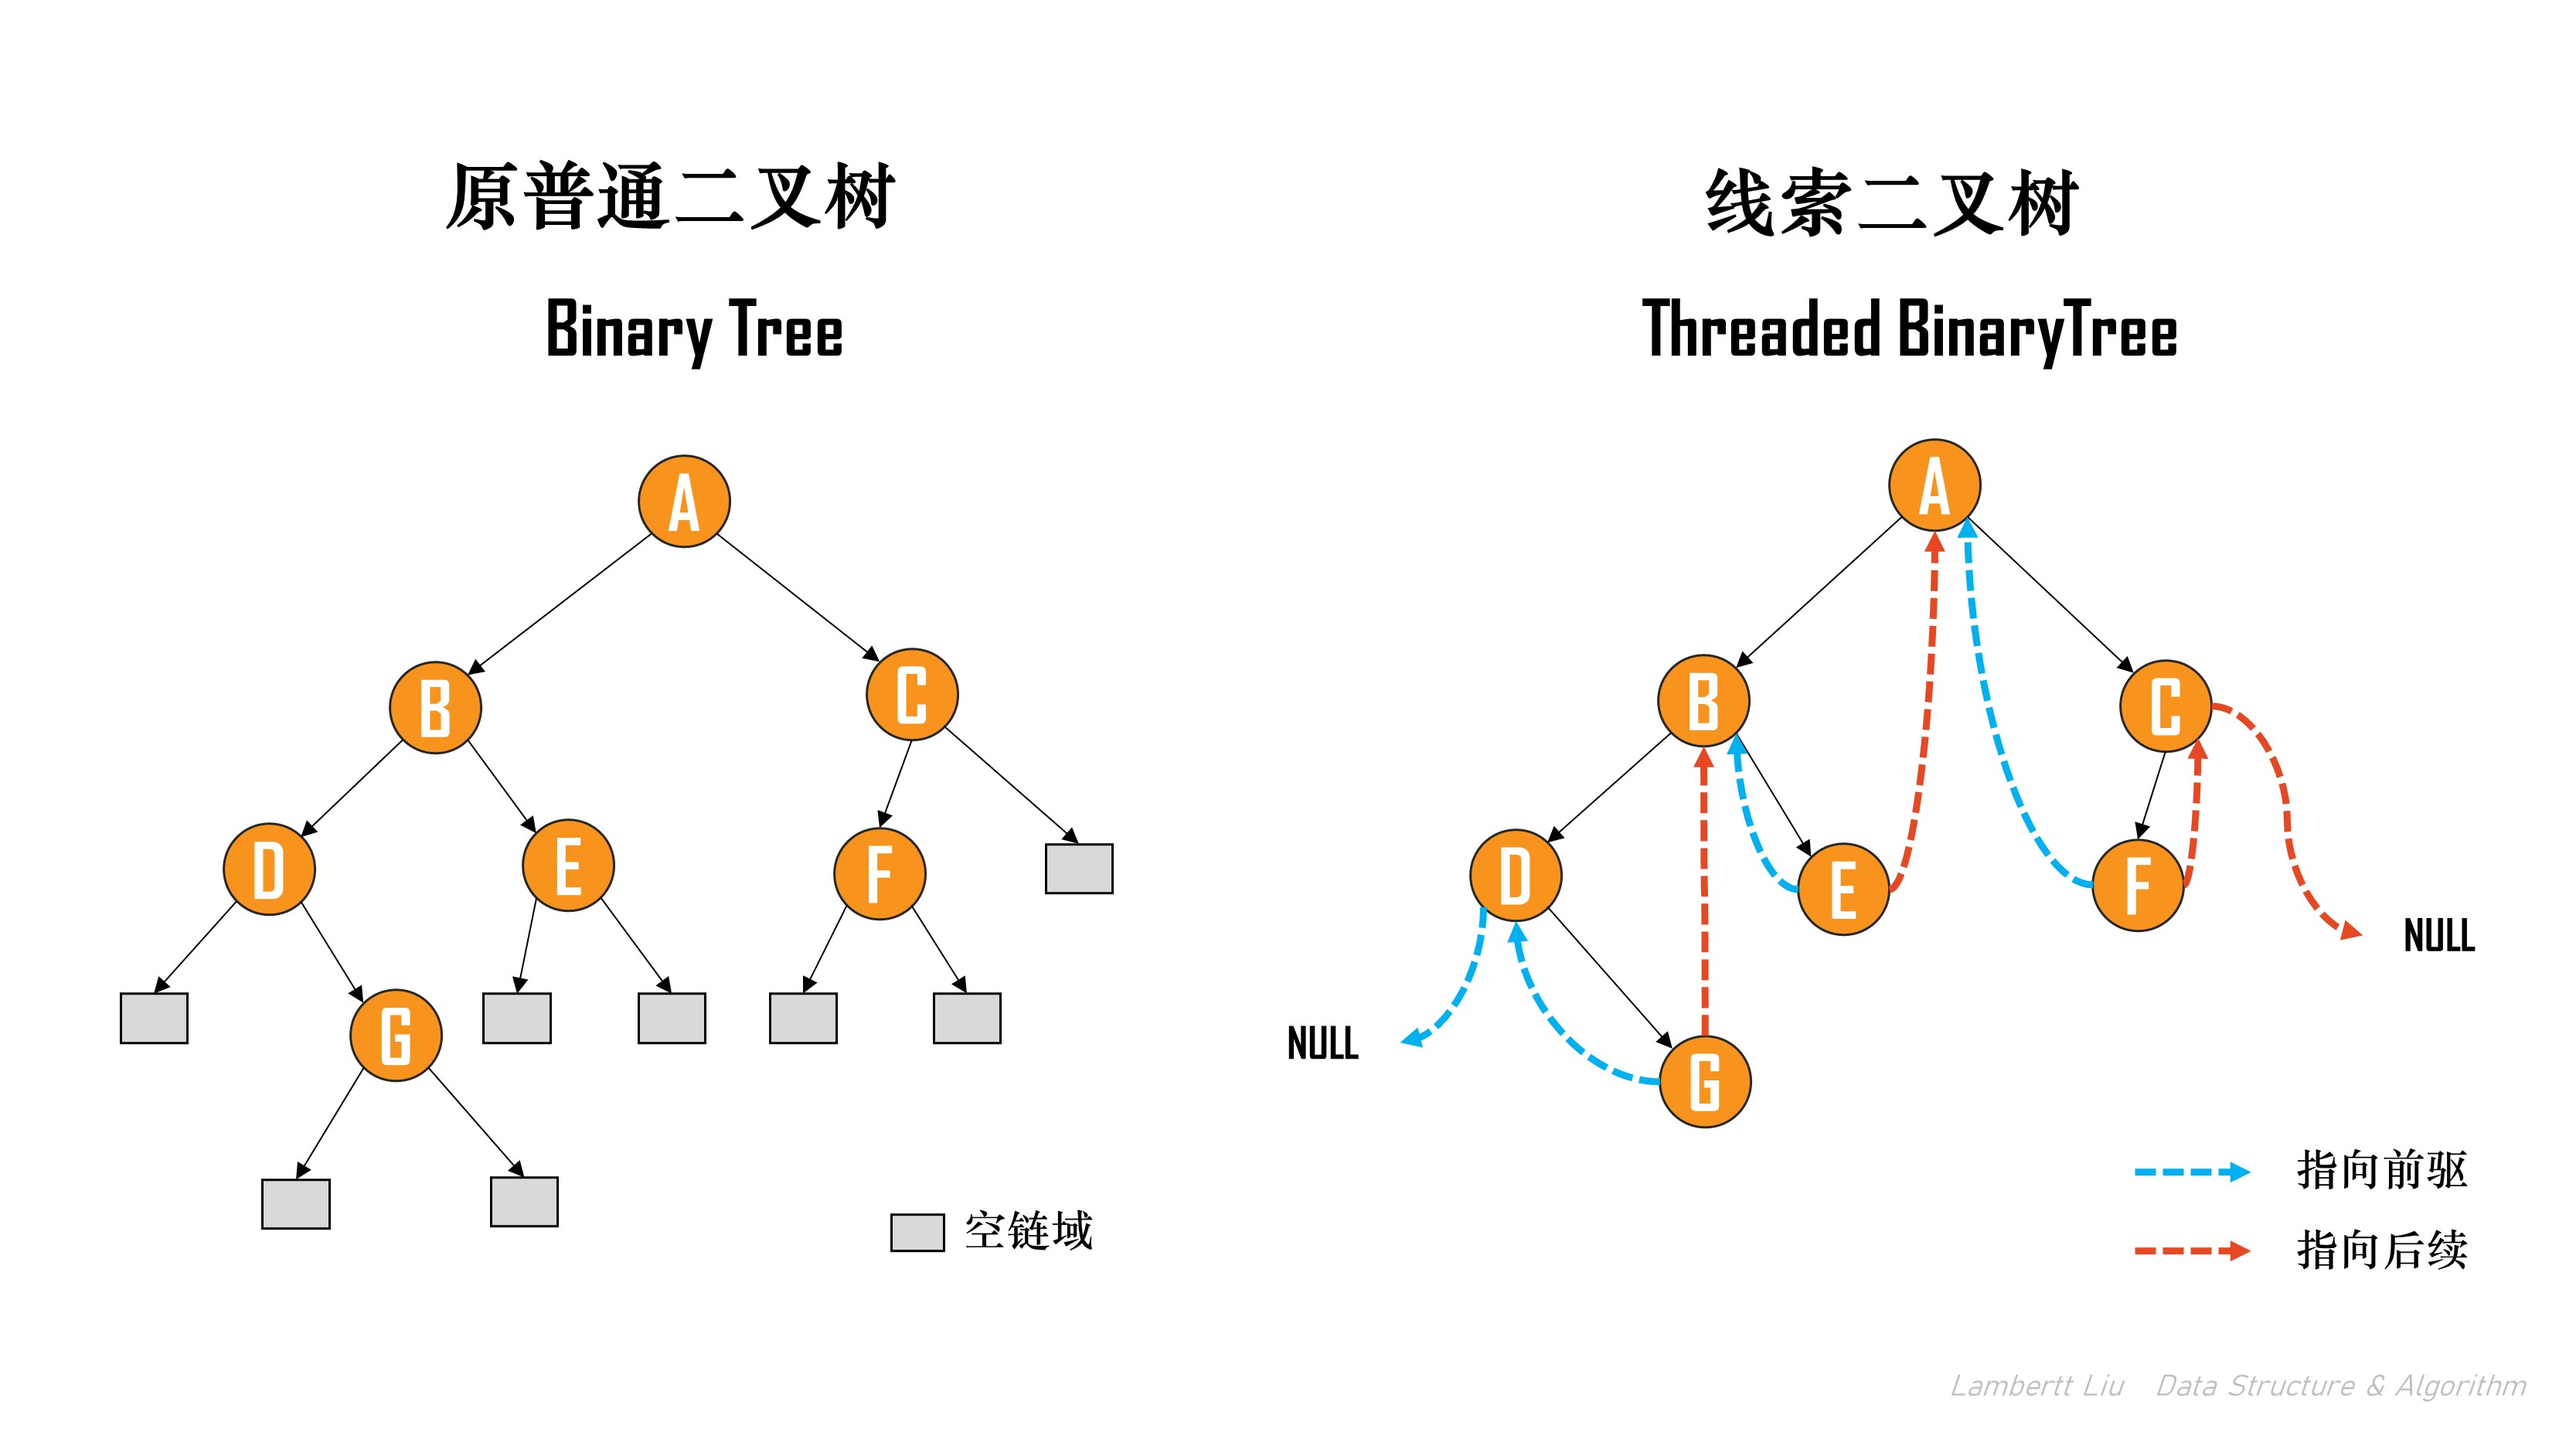
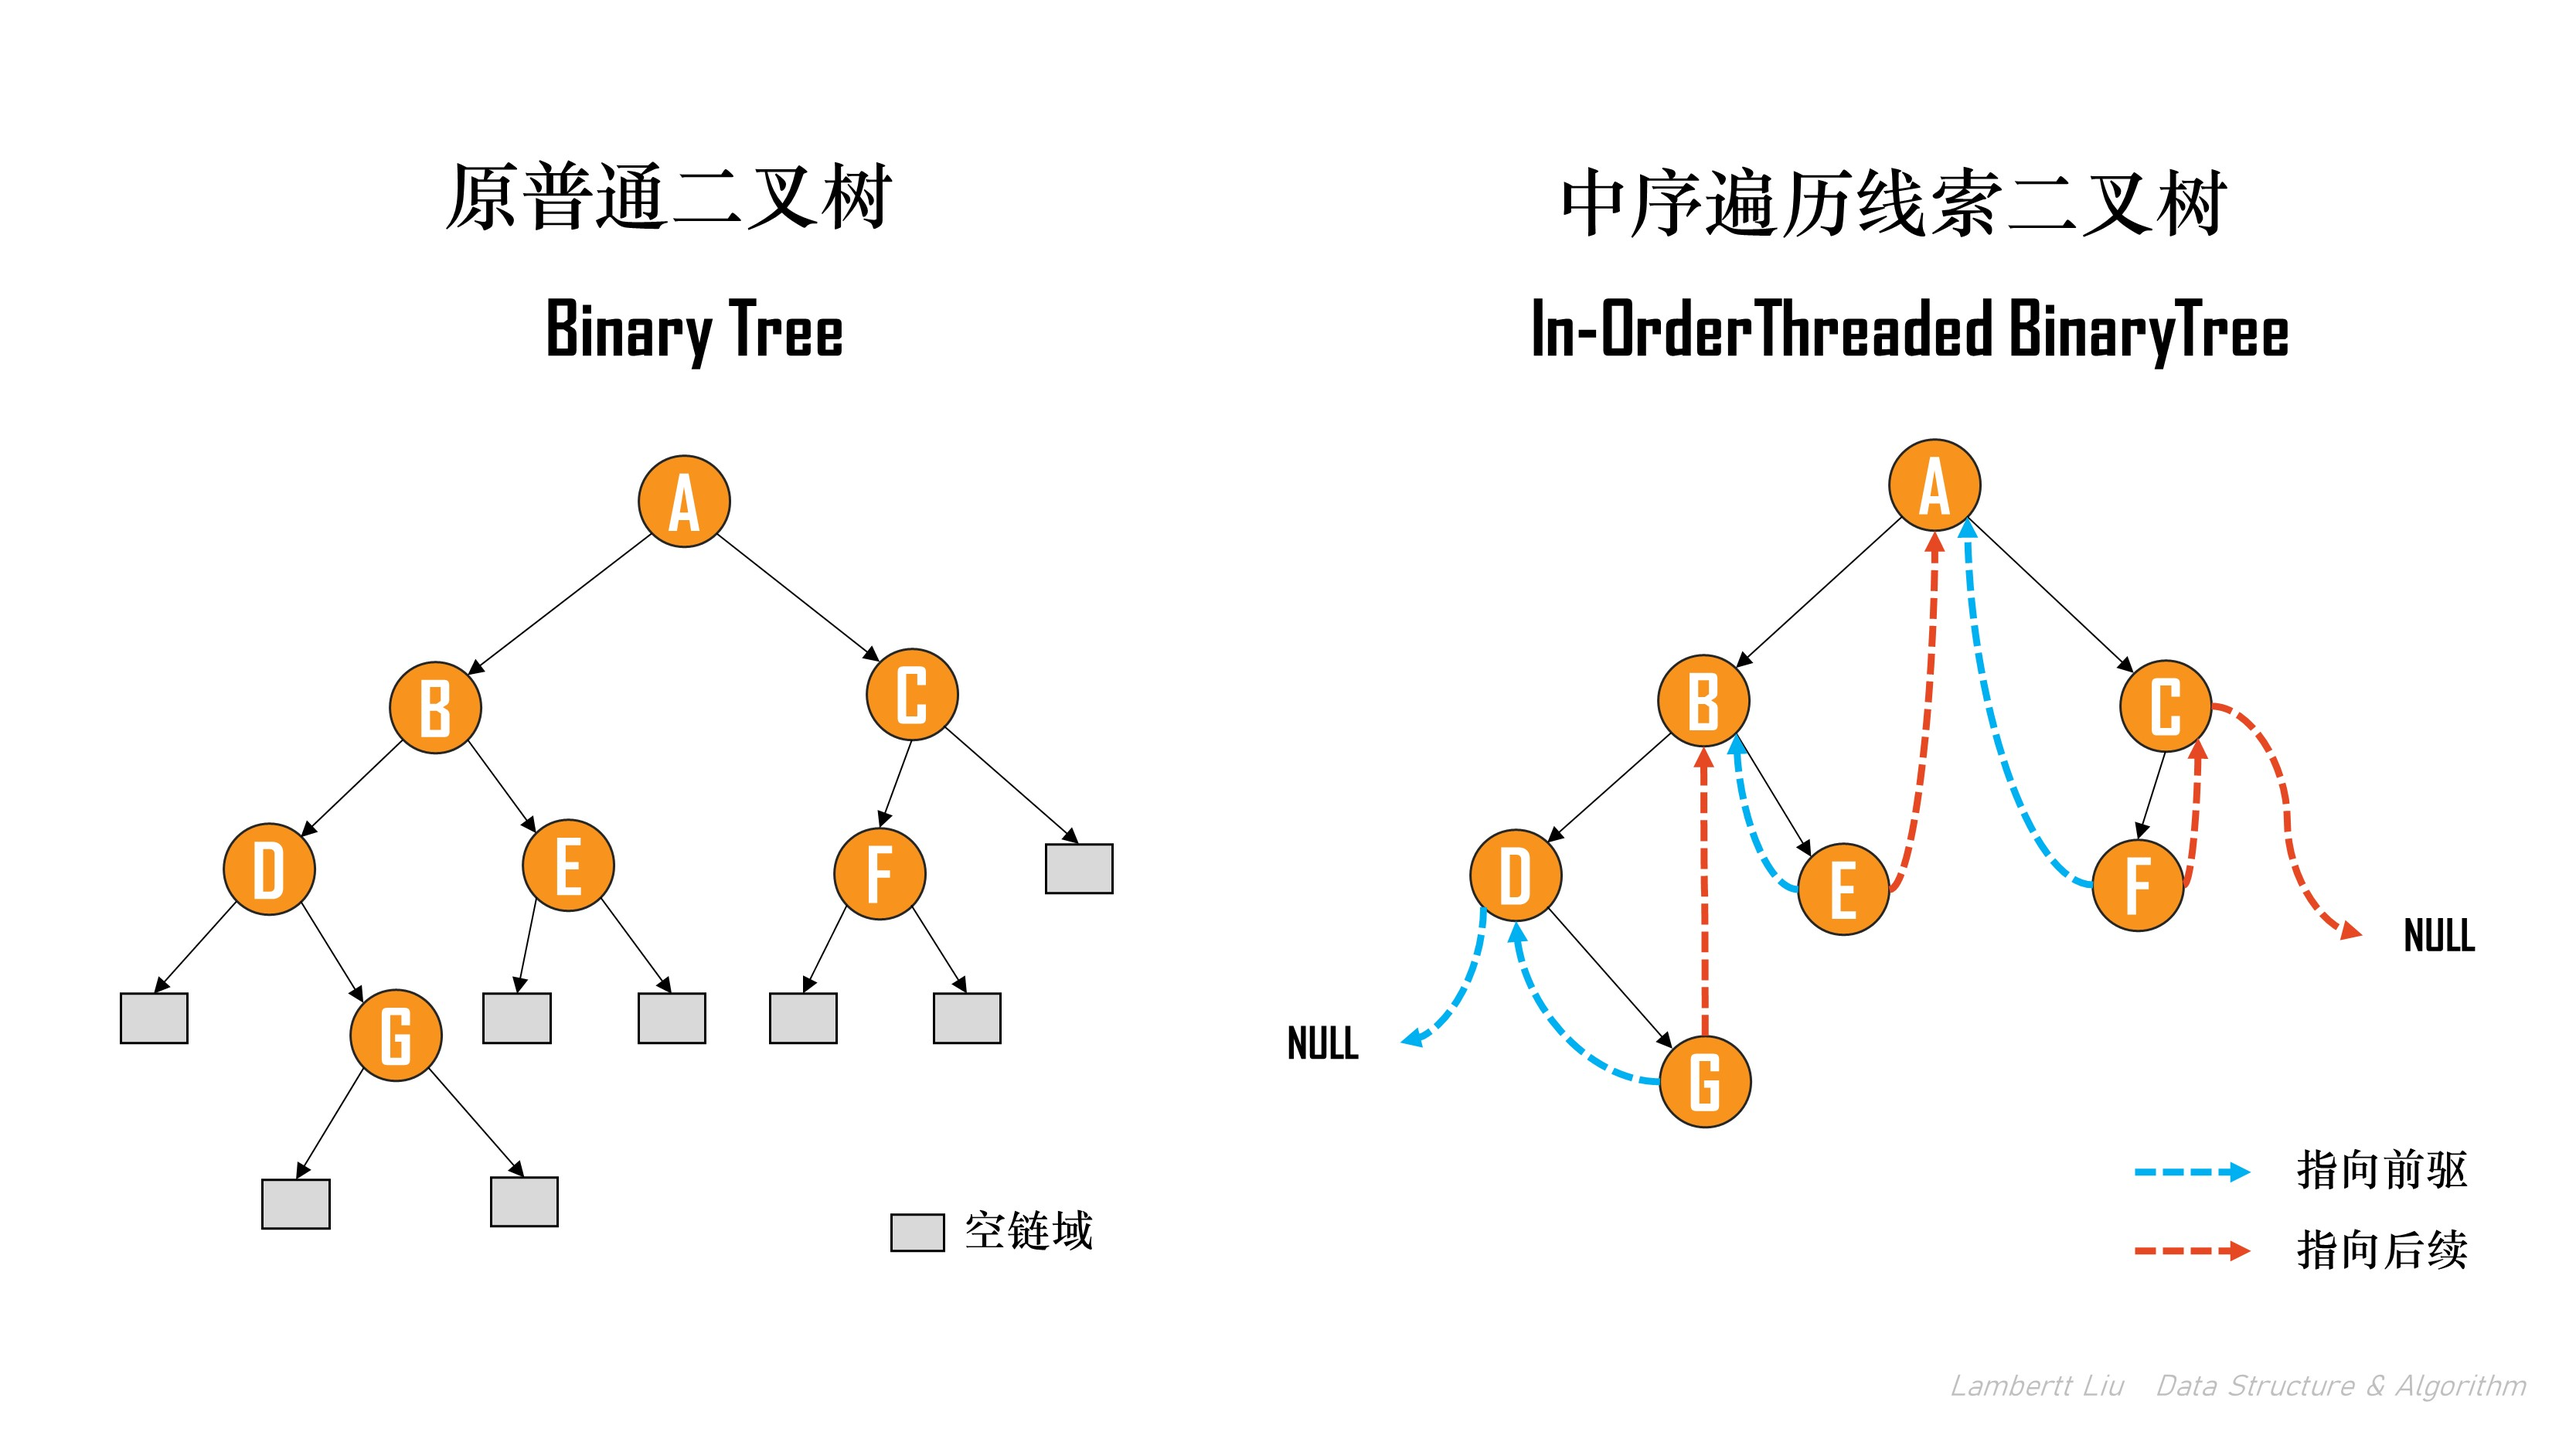
【修改说明】修改线索化二叉树

Changed region(s): [[0.5929, 0.1237, 0.9049, 0.2475], [0.1872, 0.0928, 0.3432, 0.1547]]

diff --git a/01 【DSA】数据结构与算法（C语言版本）/Ch05-3 线索二叉树.md b/01 【DSA】数据结构与算法（C语言版本）/Ch05-3 线索二叉树.md
@@ -1,6 +1,6 @@
 #数据结构 #C 
 # [45] 线索二叉树的概念
-## 1. 二叉树遍历导致数据关系“线性化”
+## 1.二叉树遍历导致数据关系“线性化”
 对二叉树进行遍历，原本的非线性关系，经过遍历之后，得到了线性关系。  
 例如，如下的二叉树经过中序遍历后，形成了`DBEAFCG`的线性关系。
 
@@ -18,7 +18,7 @@
 【回答】  
 答案很显然是不可以的。因为二叉树的节点的指向是单向，节点的指向是指向它的孩子，而并非指向双亲。对于树的遍历，只能从根节点开始。
 
-## 2. 如何对指定节点求二叉树遍历序列
+## 2.如何对指定节点求二叉树遍历序列
 
 假如，将遍历序列以线性表的形式存储起来，那么，对于任一个给定的元素，都可以找到该数据结构的其他要素（查询线性表）。
 
@@ -57,15 +57,14 @@ BiTree FindSuc()
 ```
 **缺点**：找前驱、后继很不方便，操作必须从根开始，从头开始遍历。
 
-## 2. 线索二叉树
+## 3.线索二叉树
 对原普通二叉树观察发现，存储空间内存在很多空链域，这些空链域可以用来指向他们的前驱和后继。可以利用叶子节点的空链域，分别指向他们的前驱和后继。这个过程叫做二叉树的线索化（Threading）。
 
 ![](img/06_树2/04%20线索二叉树.jpg)
 
 这个时候，对原二叉树进行改造的产物叫做线索二叉树（Threaded BinaryTree），又叫引线二元树、引线二叉树。  
 改造后的二叉树，对于某个节点而言，找到其前驱和后继只需要通过**前驱线索**和**后继线索**即可。
-## 3. 线索二叉树的存储结构
-
+## 4.线索二叉树的存储结构
 线索二叉树是添加了直接指向节点的前驱和后继的指针的二叉树。
 
 ```c
@@ -85,46 +84,52 @@ typedef struct ThreadNode {
 
 当`tag == 0`，表示指针指向孩子；当`tag == 1`，表示指针指向线索。
 二叉树可以叫做二叉链表，线索二叉树可以叫做线索链表。
-原二叉树，可以直接转化成以下的形式：
-![[img/06_树2/73 线索二叉树的存储.png]]
-同理，中序遍历二叉树序列的线索化，可以推广到前序线索二叉树、后序线索二叉树。
-![[img/06_树2/43 先序遍历二叉树线索化.png]]
+上图中的原二叉树，可以直接转化成以下的形式：
 
-![[img/06_树2/44 后序遍历二叉树线索化.png]]
+![](img/06_树2/05%20二叉树线索化.jpg)
+
+同理，中序遍历二叉树序列的线索化，可以推广到前序线索二叉树、后序线索二叉树。
+
+![](img/06_树2/06%20先序遍历线索二叉树.jpg)
+![](img/06_树2/07%20后序遍历线索二叉树.jpg)
+
 - **中序线索二叉树** —— 线索指向**中序前驱**、**中序后继**；
 - **先序线索二叉树** —— 线索指向**先序前驱**、**先序后继**；
 - **后序线索二叉树** —— 线索指向**后序前驱**、**后序后继**。
 
 # [46] 二叉树的线索化
-## 1. 中序线索化
+## 1.中序线索化
 回顾对普通二叉树进行某一个结点求其前驱的过程：
-![[img/06_树2/45 找中序前驱一般的方法.png]]
+
+![](img/06_树2/08%20中序遍历线索二叉树.jpg)
+
 ```c
 // 中序遍历寻找前驱
-void FindPre(BiTree T) {
+void FindPreNode(BiTree T) 
+{
     if (T != NULL){
         InOrder(T->lchild);    // 递归遍历左子树
-        visit(T);            // 访问根节点
+	    visit(T);              // 访问根节点
         InOrder(T->rchild);    // 递归遍历右子树
     }
 }
 
 // 访问结点q
-void visit(BiTree T) {
-    if (q == p) {            // 如果临时变量刚好访问到p
-        final = pre;         // 找到p的前驱
+void visit(BiTree T) 
+{
+    if (q == p) {           // 如果临时变量刚好访问到p
+        final = pre;        // 找到p的前驱
     } else {
         pre = q;            // pre 指向当地访问的结点
     }
 }
 
 // 辅助全局变量，用于查找结点p的前驱
-BiTNode *p;                    // p指向目标节点；
-BiTNode *pre;                // pre指向当前节点的前驱；
-BiTNode *final = NULL;        // final用于记录最终结果；
+BiTNode *p;                 // p指向目标节点；
+BiTNode *pre;               // pre指向当前节点的前驱；
+BiTNode *final = NULL;      // final用于记录最终结果；
 ```
 
-![[img/06_树2/82 线索二叉树.png]]
 如果使用线索二叉树：
 ```c
 typedef struct ThreadNode {
@@ -134,7 +139,8 @@ typedef struct ThreadNode {
 } ThreadNode, *ThreadTree;
 
 // 中序遍历二叉树，一边遍历一边线索化
-void InThread(ThreadTree T) {
+void InThread(ThreadTree T) 
+{
     if (T != NULL) {
         InTread(T->lchild);        // 中序遍历左子树
         visit(T);                // 访问根节点
@@ -143,7 +149,8 @@ void InThread(ThreadTree T) {
 }
 
 // 线索化
-void visit(ThreadNode *q) {
+void visit(ThreadNode *q) 
+{
     // 左子树是空
     if (q->lchild == NULL) {
         q->lchild = pre;
@@ -182,7 +189,7 @@ void CreateInThread(ThreadNode T)
 
 中序线索化其实就是对树的中序遍历，只不过在visit当中，添加了线索化过程。但是对于最后一个右孩子的结点后驱进行特殊处理。
 
-![[img/06_树2/73 线索二叉树的存储.png]]
+![](img/06_树2/05%20二叉树线索化.jpg)
 
 还可以使用递归调用直接实现线索化的过程：
 ```c
@@ -205,11 +212,16 @@ void InThread(ThreadTree p, ThreadTree &pre)
     }
 }
 ```
-【思考】为什么处理遍历最后一个结点时，不判断`rchild`是否为`NULL`？
+
+【思考】
+为什么处理遍历最后一个结点时，不判断`rchild`是否为`NULL`？
+【解释】
 因为中序遍历的最后一个结点右孩子指针必为空。
 
-## 2. 先序线索化
-![[img/06_树2/43 先序遍历二叉树线索化.png]]
+## 2.先序线索化
+
+![](img/06_树2/06%20先序遍历线索二叉树.jpg)
+
 ```c
 // 先序遍历二叉树，一边遍历一边线索化
 void PreThread(ThreadTree T)
@@ -269,8 +281,10 @@ void CreatePreThread(ThreadNode T)
 ```
 在先序二叉树线索化过程中，如果不采取`if (T-> ltag == 0)`判定的话，对其指向结点访问，有可能访问前驱结点，造成死循环问题。
 
-## 3. 后序线索化
-![[img/06_树2/44 后序遍历二叉树线索化.png]]
+## 3.后序线索化
+
+![](img/06_树2/07%20后序遍历线索二叉树.jpg)
+
 ```c
 // 后序遍历二叉树，一边遍历一边线索化
 void PostThread(ThreadTree T) 
@@ -319,8 +333,8 @@ void CreatePostThread(ThreadNode T)
 
 ## 1. 中序线索二叉树找中序后继
 【问题】中序线索二叉树，如何找到指定结点 `*p` 的中序后继 `next`？
-① 若 `p->rtag == 1`，则`next = p->rchild`（中序遍历：左-->根--> 右，如果`rtag`值表示1，即表示该叶子结点有后继线索，直接赋值即可）;
-② 若 `p->rtag == 0`，表示这个结点一定是有右孩子的，`next = p的右子树中最左下的结点`。
+1. 若 `p->rtag == 1`，则`next = p->rchild`（中序遍历：左-->根--> 右，如果`rtag`值表示1，即表示该叶子结点有后继线索，直接赋值即可）;
+2. 若 `p->rtag == 0`，表示这个结点一定是有右孩子的，`next = p的右子树中最左下的结点`。
 ![[img/06_树2/46 中序线索二叉树后继.png]]
 代码实现：
 ```c
@@ -397,8 +411,8 @@ ThreadNode *LastNode(ThreadNode *p)
 
 ## 3. 先序线索二叉树找先序后继
 【问题】先序线索二叉树（根节点--> 左孩子 --> 右孩子），如何找到指定结点 `*p` 的先序后继 `next`？
-① 若 `p->rtag == 1`，同理，则`next = p->rchild`;
-② 若 `p->rtag == 0`，表示这个结点一定是有右孩子的。
+1. 若 `p->rtag == 1`，同理，则`next = p->rchild`;
+2.  若 `p->rtag == 0`，表示这个结点一定是有右孩子的。
 这个时候，需要对这个结点的左孩子情况进行讨论。
 - 如果有左孩子，那么先序后继为左孩子；
 - 如果有没有左孩子，那么先序后继为右孩子。
